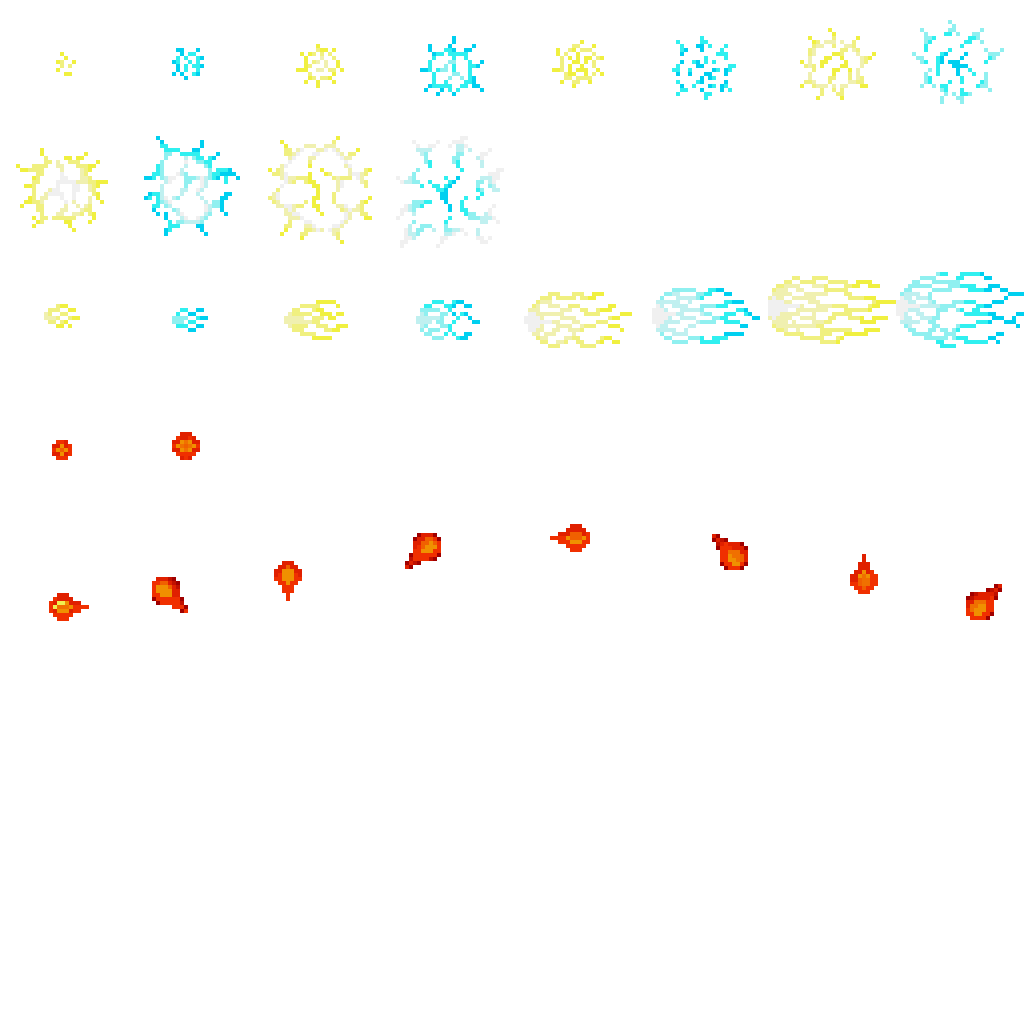
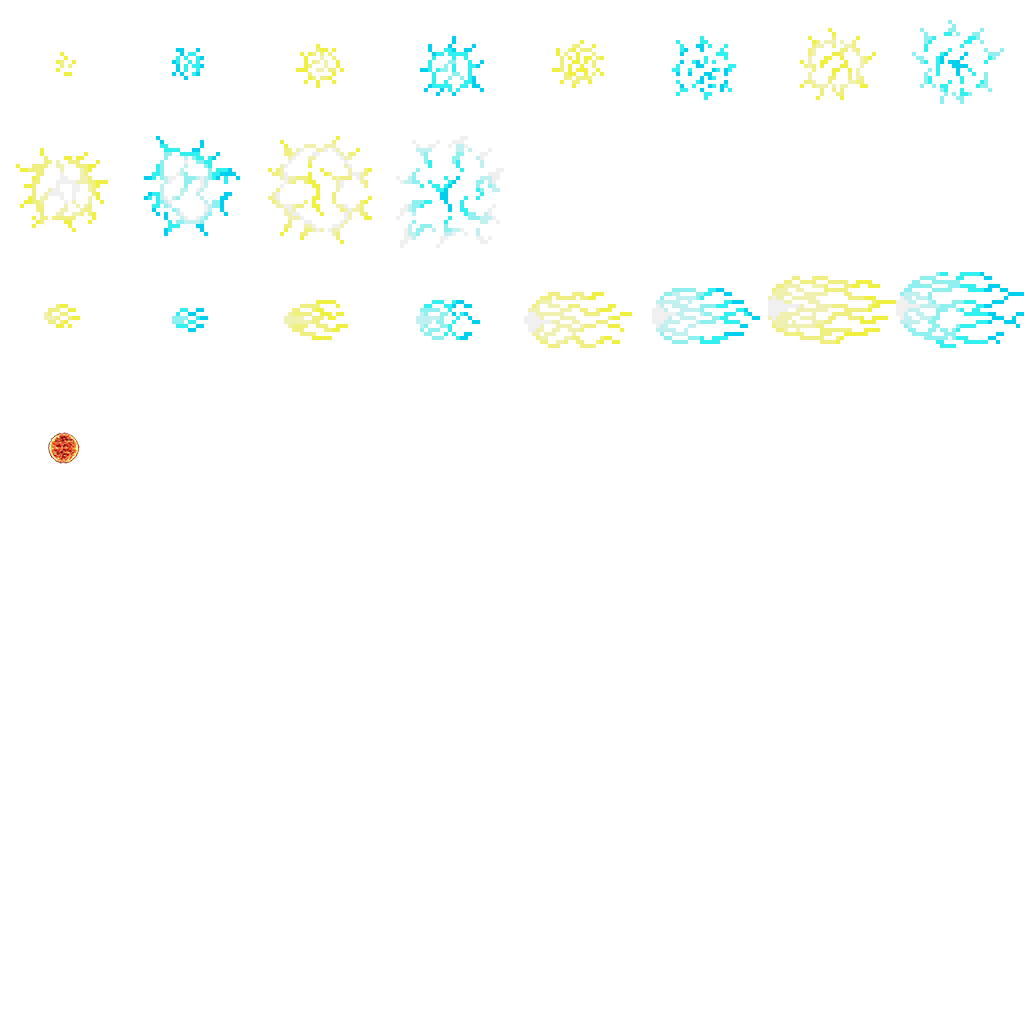
ご先祖念力修正

diff --git a/Solution/PsychicMomotaro.cpp b/Solution/PsychicMomotaro.cpp
@@ -3,29 +3,79 @@
 #include "Camera.h"
 #include "define.h"
 
-PsychicMomotaro::PsychicMomotaro( int x, int y, int accel_x, int accel_y ) :
+static const int CHIP_SIZE = 128;
+static const int RADIUS = 32;
+static const double SPEED = 2.0;
+static const double ACCEL = 0.1;
+
+PsychicMomotaro::PsychicMomotaro( int x, int y, bool right ) :
 Psychic( x, y ) {
-	_motion_count = rand( ) % 8;
-	setAccelX( accel_x );
-	setAccelY( accel_y );
+	setPow( 1 );
+	setChipSize( 0 );
+
+	_pos = Vector( x, y );
+	Matrix mat = Matrix::makeTransformRotation( Vector( 0, 0, 1 ), rand( ) % 1000 * PI2 / 1000 ); 
+
+	int v = -1;
+	if ( right ) {
+		v = 1;
+	}
+	_vec = mat.multiply( Vector( 0, SPEED * v ) );
+	_accel = Vector( ACCEL * v, 0 );
+	
+	for ( int j = 0; j < DIV_NUM; j++ ) {
+		_vec += _accel;
+		_vec = _vec.normalize( ) * SPEED;
+		_pos += _vec;
+	}
 }
 
 PsychicMomotaro::~PsychicMomotaro( ) {
 }
 
 void PsychicMomotaro::act( ) {
-	_motion_count++;
-
-	if ( getX( ) < getRange( ) || getX( ) > getRange( ) + SCREEN_WIDTH ||
-		 getY( ) < 0 || getY( ) > SCREEN_HEIGHT ) {
+	if ( _pos.x < getRange( ) || _pos.x > getRange( ) + SCREEN_WIDTH ) {
 		finish( );
 	}
 
-	int idx = _motion_count;
-	setChipGraph( GRAPH_PSYCHIC, idx % 8, 4 );
+	for ( int j = 0; j < DIV_NUM; j++ ) {
+		_vec += _accel;
+		_vec = _vec.normalize( ) * SPEED;
+		_pos += _vec;
+		for ( int i = 0; i < TAIL_NUM - 1; i++ ) {
+			_tails[ i ] = _tails[ i + 1 ];
+		}
+		_tails[ TAIL_NUM - 1 ] = _pos;
+	}
 }
 
 void PsychicMomotaro::hit( ) {
 	finish( );
 }
 
+void PsychicMomotaro::draw( CameraConstPtr camera, bool bright ) const {
+	int tx = 0 * CHIP_SIZE;
+	int ty = 3 * CHIP_SIZE;
+
+	for ( int i = 0; i < TAIL_NUM; i++ ) {
+		if ( _tails[ i ].isOrijin( ) ) {
+			continue;
+		}
+		int draw_size = CHIP_SIZE * ( i + 1 ) / TAIL_NUM;
+		int sx = ( int )_tails[ i ].x - camera->getX( ) - draw_size / 2;
+		int sy = ( int )( _tails[ i ].y + sin( _tails[ i ].x / 30.0 ) * 10 ) - camera->getY( ) - draw_size / 2;
+
+		DrawerPtr drawer = Drawer::getTask( );
+		Drawer::Transform trans( sx, sy, tx, ty, CHIP_SIZE, CHIP_SIZE, sx + draw_size, sy + draw_size );
+		Drawer::Sprite sprite( trans, GRAPH_PSYCHIC, Drawer::BLEND_ADD, 0.1 );
+		drawer->setSprite( sprite );
+	}
+}
+
+Vector PsychicMomotaro::getOverlappedPos( ) const {
+	return _pos;
+}
+
+double PsychicMomotaro::getOverlappedRadius( ) const {
+	return RADIUS;
+}

diff --git a/Solution/Momotaro.cpp b/Solution/Momotaro.cpp
@@ -73,7 +73,7 @@ void Momotaro::adjust( CameraConstPtr camera ) {
 
 void Momotaro::appear( int x, int y, bool reverse ) {
 	_action = ACTION_MOVE;
-	_falter_count = 0;
+	_falter_count = FALTER_COUNT;
 	setX( x );
 	setY( y );
 	setChipReverse( reverse );
@@ -117,7 +117,7 @@ void Momotaro::actOnMove( ) {
 	
 	if ( vec.isOrijin( ) || device->getButton( ) == BUTTON_A ) {
 		double length = _vec.getLength( );
-		_vec = _vec.normalize( ) * ( length * 0.9 );
+		_vec = _vec.normalize( ) * ( length * 0.8 );
 		setAccelX( ( int )_vec.x );
 		setAccelY( ( int )_vec.y );
 	}
@@ -126,7 +126,7 @@ void Momotaro::actOnMove( ) {
 	if ( device->getButton( _device_num ) == BUTTON_A ) {
 		sound->playSE( "yokai_se_27.wav" );
 		if ( _cool < 0 ) {
-			PsychicPtr psychic( new PsychicMomotaro( getX( ), getY( ), _shoot_x, _shoot_y ) ); 
+			PsychicPtr psychic( new PsychicMomotaro( getX( ), getY( ), isChipReverse( ) ) ); 
 			_psychic_mgr->shoot( psychic );
 			_cool = COOL_TIME;
 		}

diff --git a/Solution/SceneStreet.cpp b/Solution/SceneStreet.cpp
@@ -121,7 +121,9 @@ Scene::NEXT SceneStreet::update( ) {
 		}
 		break;
 	case PHASE_BOSS:
-		_enemy_mgr->attackBoss( );
+		if ( !_tarosuke->isCalling( ) ) {
+			_enemy_mgr->attackBoss( );
+		}
 		if ( _power->get( ) == 0 ) {
 			_phase = PHASE_DEAD;
 			_phase_count = 0;
@@ -167,10 +169,13 @@ Scene::NEXT SceneStreet::update( ) {
 	_momotaro->update( _field );
 	_momotaro->adjust( _camera );
 	_camera->update( _tarosuke );
-	_enemy_mgr->update( _field, _camera, _tarosuke, _momotaro );
-	_psychic_mgr->update( _camera, _tarosuke, _enemy_mgr );
 	_status->update( );
-	_field->update( _camera );
+
+	if ( !_tarosuke->isCalling( ) ) {
+		_enemy_mgr->update( _field, _camera, _tarosuke, _momotaro );
+		_psychic_mgr->update( _camera, _tarosuke, _enemy_mgr );
+		_field->update( _camera );
+	}
 
 	_field->draw( _camera );
 	_enemy_mgr->draw( _camera );

diff --git a/Solution/PsychicMomotaro.h b/Solution/PsychicMomotaro.h
@@ -2,15 +2,25 @@
 
 #include "smart_ptr.h"
 #include "Psychic.h"
+#include "mathmatics.h"
+#include <array>
 
 class PsychicMomotaro : public Psychic {
 public:
-	PsychicMomotaro( int x, int y, int accel_x, int accel_y );
+	PsychicMomotaro( int x, int y, bool right );
 	virtual ~PsychicMomotaro( );
 private:
 	void act( );
 	void hit( );
+	virtual void draw( CameraConstPtr camera, bool bright = false ) const;
+	Vector getOverlappedPos( ) const;
+	double getOverlappedRadius( ) const;
 private:
-	int _motion_count;
+	static const int TAIL_NUM = 100;
+	static const int DIV_NUM = 10;
+	Vector _pos;
+	Vector _vec;
+	Vector _accel;
+	std::array< Vector, TAIL_NUM > _tails;
 };
 

diff --git a/Solution/Tarosuke.cpp b/Solution/Tarosuke.cpp
@@ -65,6 +65,12 @@ void Tarosuke::adjust( CameraConstPtr camera ) {
 	}
 }
 
+bool Tarosuke::isCalling( ) const {
+	return
+		_action == ACTION_CALL ||
+		_action == ACTION_APPEAR;
+}
+
 void Tarosuke::act( ) {
 	GamePtr game = Game::getTask( );
 	game->addDebugMessage( "Tarosuke x:%05d(%03d) y:%03d", getX( ), getX( ) % BG_SIZE, getY( ) );

diff --git a/Solution/Character.h b/Solution/Character.h
@@ -26,7 +26,7 @@ public:
 	FLOOR getFloor( ) const;
 	virtual double getOverlappedRadius( ) const;
 	virtual Vector getOverlappedPos( ) const;
-	void draw( CameraConstPtr camera, bool bright = false ) const;
+	virtual void draw( CameraConstPtr camera, bool bright = false ) const;
 protected:
 	void setX( int x );
 	void setY( int y );

diff --git a/Solution/Tarosuke.h b/Solution/Tarosuke.h
@@ -21,6 +21,7 @@ public:
 	void damage( int pow );
 	void bound( );
 	void adjust( CameraConstPtr camera );
+	bool isCalling( ) const;
 private:
 	enum ACTION {
 		ACTION_STAND,

diff --git a/Solution/Power.cpp b/Solution/Power.cpp
@@ -31,5 +31,3 @@ void Power::decrease( int pow ) {
 
 	
 }
-
-
